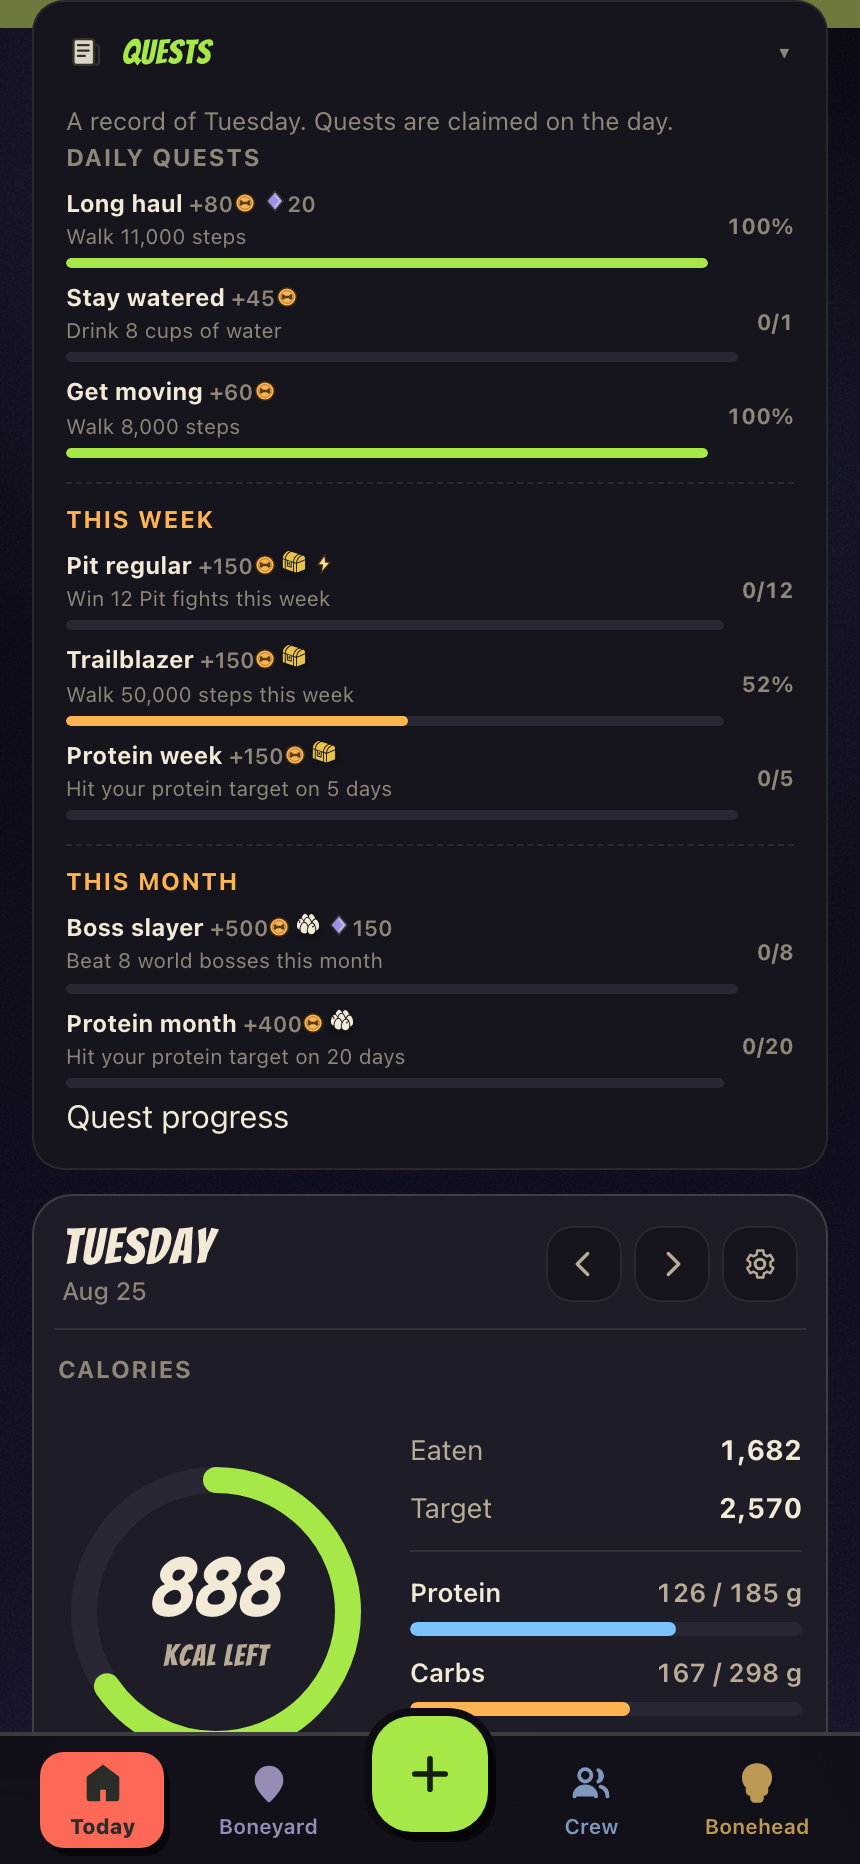
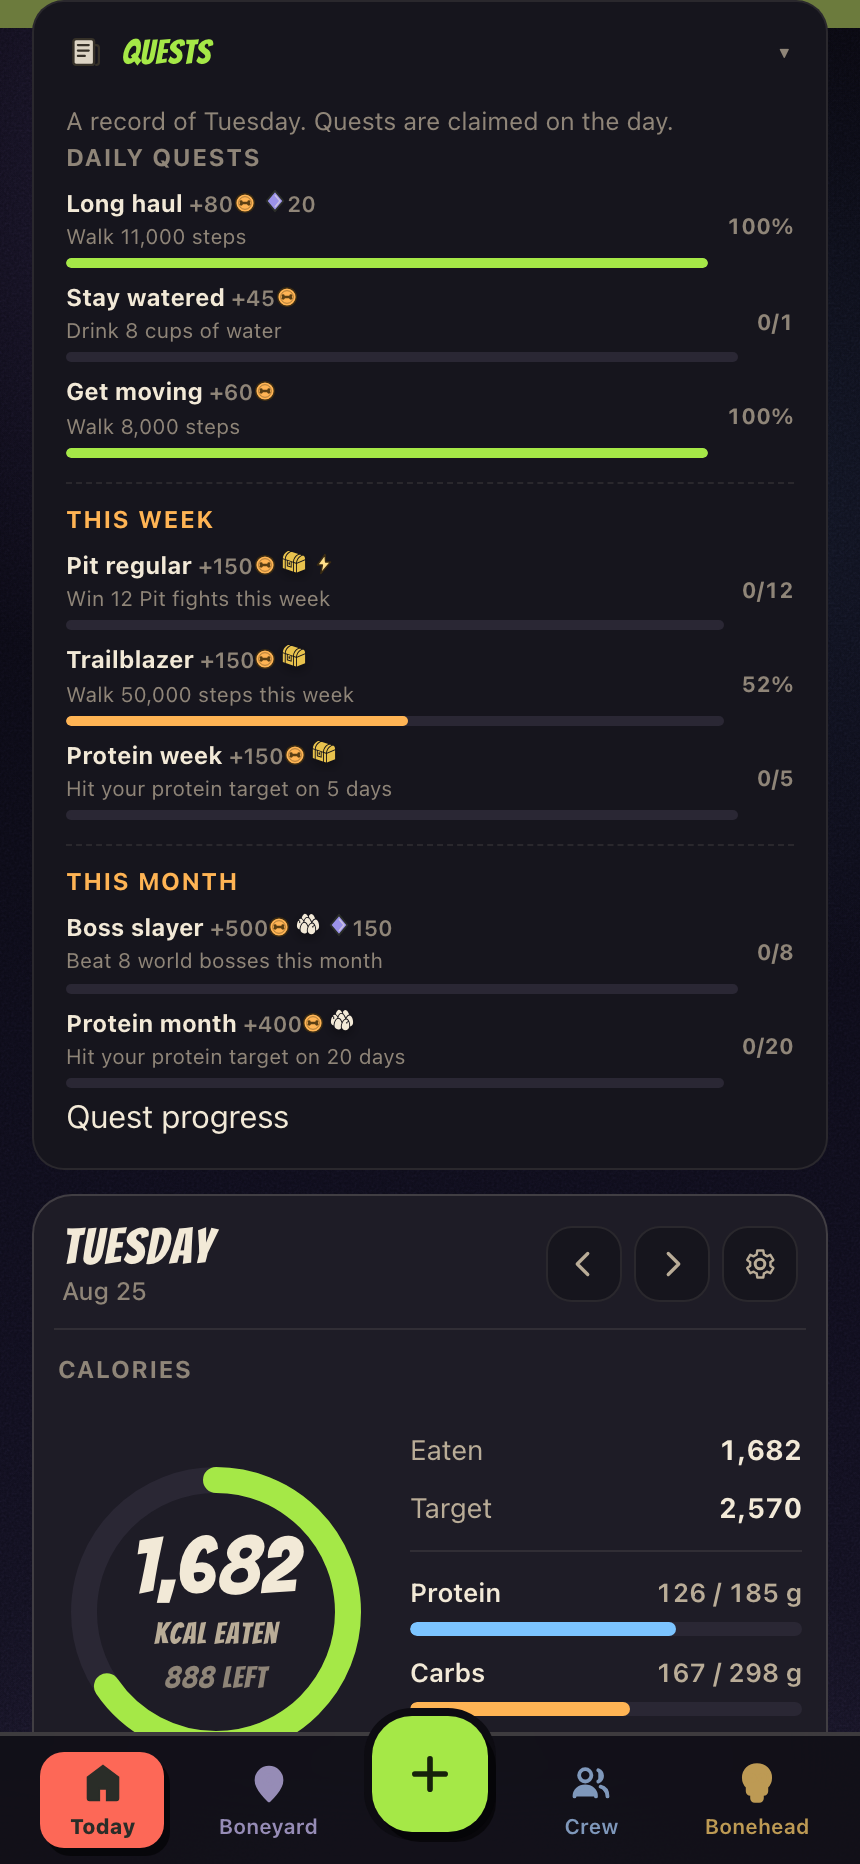
the ring and the number stop disagreeing, and the card reaches Trends
TWO THINGS, both from a critique that MEASURED the card instead of looking at it.

1. THE DIRECTION CONFLICT. The ring FILLED UP while the headline number COUNTED
   DOWN: the lime arc grew as "1,284 KCAL LEFT" shrank. Two opposite frames in
   one component, shipped for months, and neither Tom nor I had noticed. The
   number is now what you have EATEN, so it climbs with the arc, and the figure
   that answers "can I have dinner" moves to a quieter line beneath it. The tween
   climbs to eaten rather than down to remaining, and S.ui carries eatenShown.

2. THE CARD IS ON TRENDS NOW. Tom: "trends is the one stop shop for all things
   health and wellness. it is the hub for these things." EXTRACTED into
   calorieRingCard() rather than copied, because a second hand-written copy is
   exactly how the Boneyard's "Out there today" list drifted four markers behind
   the map key it was duplicating. Labelled "Today" there, because everything
   else on that page is a window of days and an unlabelled daily ring reads as a
   period summary. live:false drops the ids so Today's tween still finds exactly
   one element.

THE RING STAYS A SINGLE LIME, on Tom's instruction, and the rejected alternative
is worth recording. A macro-segmented ring was proposed, mocked and killed by
measurement: the three macro colours are isoluminant, contrast 1.06 and 1.09
between neighbours against 9.90 for lime on the track, so with chroma stripped the
[…]

Changed region(s): [[0.1512, 0.809, 0.3628, 0.9024]]

diff --git a/js/app.js b/js/app.js
@@ -3596,28 +3596,7 @@ async function renderToday(el) {
   </button>` : ''}
 
   <section class="tsec"><div class="tsec-h">Calories</div>
-  <div class="card ring-card">
-    <div class="ring-wrap">
-      <svg viewBox="0 0 158 158">
-        <circle class="ring-track" cx="79" cy="79" r="66" fill="none" stroke-width="13"/>
-        <circle class="ring-fill ${over ? 'over' : ''}" id="ringFill" cx="79" cy="79" r="66" fill="none" stroke-width="13" stroke-linecap="round"
-          stroke-dasharray="${C}" stroke-dashoffset="${C * (1 - prev.ringPct)}"/>
-      </svg>
-      <div class="ring-center">
-        <div class="big" id="ringBig">${Math.abs(prev.remainShown ?? remaining).toLocaleString()}</div>
-        <div class="lbl">${over ? 'kcal over' : 'kcal left'}</div>
-      </div>
-    </div>
-    <div class="ring-side">
-      <div class="kv"><span>Eaten</span><b>${Math.round(tot.kcal).toLocaleString()}</b></div>
-      <div class="kv"><span>Target</span><b>${t.kcal.toLocaleString()}</b></div>
-      <div class="divider" style="margin:2px 0"></div>
-      ${macroRow('Protein', tot.p, t.p, 'protein', prev.macroPcts[0], protHit)}
-      ${macroRow('Carbs', tot.c, t.c, 'carbs', prev.macroPcts[1], false)}
-      ${macroRow('Fat', tot.f, t.f, 'fat', prev.macroPcts[2], false)}
-    </div>
-  </div>
-  </section>
+  ${calorieRingCard({ tot, t, over, remaining, protHit, startPct: prev.ringPct, startBig: prev.eatenShown ?? tot.kcal, macroPcts: prev.macroPcts })}</section>
 
   ${/* WELLNESS IS THE ONE SECTION THAT STAYS TODAY-ONLY, and the reason is its
        store, not its layout: js/wellness.js keeps water/bed/sleep in a SINGLE kv
@@ -3660,8 +3639,8 @@ async function renderToday(el) {
     if (ring) ring.style.strokeDashoffset = String(C * (1 - pct));
     $$('.ring-side .bar i', el).forEach((bar, i) => { bar.style.width = macroPcts[i] + '%'; });
   }));
-  tweenNumber($('#ringBig', el), prev.remainShown ?? remaining, Math.abs(remaining), 650, v => Math.round(Math.abs(v)).toLocaleString());
-  S.ui = { ringPct: pct, remainShown: Math.abs(remaining), macroPcts };
+  tweenNumber($('#ringBig', el), prev.eatenShown ?? tot.kcal, tot.kcal, 650, v => Math.round(v).toLocaleString());
+  S.ui = { ringPct: pct, eatenShown: tot.kcal, macroPcts };
 
   $('#todaySettings', el)?.addEventListener('click', () => { location.hash = '#/settings'; });
   $('#prevDay').addEventListener('click', () => { S.date = addDays(S.date, -1); refresh(); });
@@ -3863,6 +3842,61 @@ async function renderToday(el) {
   }));
 
   if (isToday) hydrateRaceResult(el);
+}
+
+/* THE CALORIE RING, ONE DEFINITION, TWO SCREENS.
+   Tom, 2026-08-26: "this should be found on the trends page too ... trends is the
+   one stop shop for all things health and wellness. it is the hub for these
+   things." Extracted rather than copied: a second hand-written copy of this card
+   is how the Boneyard's "Out there today" list drifted four markers behind the
+   map key it was duplicating.
+
+   THE NUMBER AND THE RING NOW RUN THE SAME WAY, which is the defect this fixes.
+   The ring FILLED UP while the headline number COUNTED DOWN: the lime arc grew as
+   "1,284 KCAL LEFT" shrank, two opposite frames in one component, and neither of
+   us noticed until a critique measured the card rather than looking at it. The
+   number is what you have EATEN now, so it climbs with the arc, and the figure
+   that actually answers "can I have dinner" moves to the line underneath rather
+   than being lost.
+
+   Ring stays a SINGLE LIME on Tom's instruction. A segmented macro ring was
+   proposed, mocked and rejected: the three macro colours are isoluminant
+   (measured contrast 1.06 and 1.09 between neighbours, against 9.90 for the lime
+   on the track), so with chroma stripped the segmented arc is one uniform grey
+   band with no visible divisions at all. It also collided with the bars 200px to
+   its right, where the same blue means a completely different statistic. */
+function calorieRingCard({ tot, t, over, remaining, protHit, startPct = 0, startBig = 0, macroPcts = [0, 0, 0], live = true }) {
+  const C = 2 * Math.PI * 66;
+  const eaten = Math.round(tot.kcal);
+  /* SHORT ON PURPOSE. "1,284 left of 2,570" overflowed the ring's interior and
+     collided with the arc, measured at 176px against 119px of usable width. The
+     target is already stated as "Target 2,570" in the column beside it, so
+     repeating it here cost a collision to say nothing new. */
+  const sub = over
+    ? `${Math.abs(Math.round(remaining)).toLocaleString()} over`
+    : `${Math.round(remaining).toLocaleString()} left`;
+  return `<div class="card ring-card">
+    <div class="ring-wrap">
+      <svg viewBox="0 0 158 158">
+        <circle class="ring-track" cx="79" cy="79" r="66" fill="none" stroke-width="13"/>
+        <circle class="ring-fill ${over ? 'over' : ''}"${live ? ' id="ringFill"' : ''} cx="79" cy="79" r="66" fill="none" stroke-width="13" stroke-linecap="round"
+          stroke-dasharray="${C}" stroke-dashoffset="${C * (1 - startPct)}"/>
+      </svg>
+      <div class="ring-center">
+        <div class="big"${live ? ' id="ringBig"' : ''}>${Math.round(startBig).toLocaleString()}</div>
+        <div class="lbl">kcal eaten</div>
+        <div class="lbl ring-sub">${sub}</div>
+      </div>
+    </div>
+    <div class="ring-side">
+      <div class="kv"><span>Eaten</span><b>${Math.round(tot.kcal).toLocaleString()}</b></div>
+      <div class="kv"><span>Target</span><b>${t.kcal.toLocaleString()}</b></div>
+      <div class="divider" style="margin:2px 0"></div>
+      ${macroRow('Protein', tot.p, t.p, 'protein', macroPcts[0], protHit)}
+      ${macroRow('Carbs', tot.c, t.c, 'carbs', macroPcts[1], false)}
+      ${macroRow('Fat', tot.f, t.f, 'fat', macroPcts[2], false)}
+    </div>
+  </div>`;
 }
 
 function macroRow(label, val, target, cls, prevPct = 0, glow = false) {
@@ -8431,9 +8465,24 @@ async function renderTrends(el) {
 
   const pill = (v, sub) => `<div class="recap-pill"><span class="rp-v">${v}</span><span class="rp-s">${sub}</span></div>`;
 
+  /* TODAY'S CALORIES, ON THE HUB. Tom, 2026-08-26: "this should be found on the
+     trends page too ... trends is the one stop shop for all things health and
+     wellness." Same card as Today, from the same function, so the two can never
+     drift. It is LABELLED "Today" because everything else on this page is a
+     window of days, and an unlabelled daily ring on a weekly page reads as a
+     period summary. `live: false` drops the ids, so Today's tween keeps hunting
+     exactly one element and this copy is simply static. */
+  const tToday = dayTotals(byDate[dateKey()] || []);
+  const remToday = t.kcal - tToday.kcal;
+
   el.innerHTML = `
   <div id="updBanner"></div>
   <h1 class="page-h1">Progress<span class="sub">Your level, streak, badges and data</span></h1>
+
+  <section class="tsec"><div class="tsec-h">Today</div>
+  ${calorieRingCard({ tot: tToday, t, over: remToday < 0, remaining: remToday, protHit: t.p && tToday.p >= t.p,
+                      startPct: Math.min(1, t.kcal ? tToday.kcal / t.kcal : 0), startBig: tToday.kcal, live: false,
+                      macroPcts: [t.p ? Math.min(100, tToday.p / t.p * 100) : 0, t.c ? Math.min(100, tToday.c / t.c * 100) : 0, t.f ? Math.min(100, tToday.f / t.f * 100) : 0] })}</section>
 
   ${activityRecoveryHtml(days)}
 

diff --git a/app.css b/app.css
@@ -300,6 +300,9 @@ svg { display: block; }
 .ring-center { position: absolute; inset: 0; display: grid; place-content: center; text-align: center; }
 .ring-center .big { font-size: 34px; font-weight: 800; letter-spacing: -0.03em; font-variant-numeric: tabular-nums; line-height: 1; }
 .ring-center .lbl { font-size: 12px; color: var(--text-3); font-weight: 600; margin-top: 4px; }
+/* The line that keeps "can I have dinner" answerable now the headline counts UP.
+   Smaller and quieter than the label above it: it is the detail, not the reading. */
+.ring-center .ring-sub { font-size: 10.5px; opacity: .72; margin-top: 2px; letter-spacing: .01em; }
 .ring-side { flex: 1; display: grid; gap: 10px; }
 .kv { display: flex; justify-content: space-between; align-items: baseline; font-size: 14px; color: var(--text-2); }
 .kv b { color: var(--text); font-weight: 700; font-variant-numeric: tabular-nums; }
